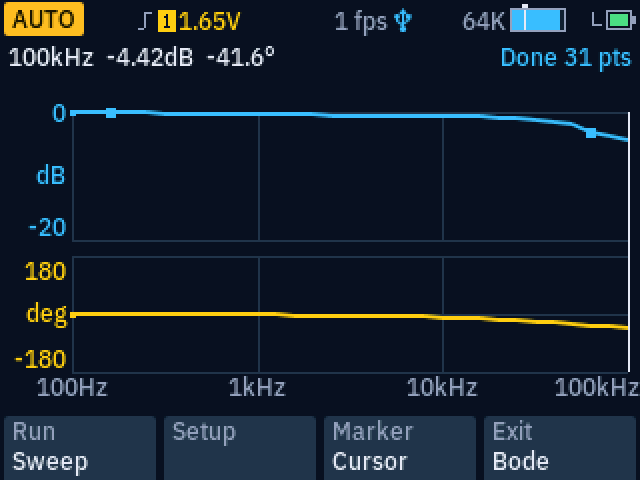
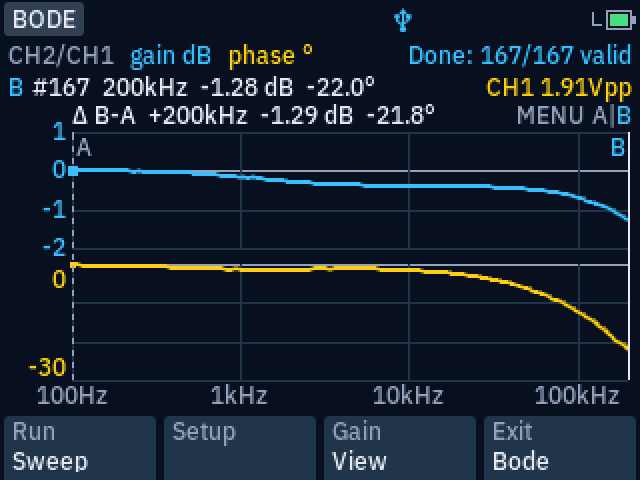
Update the Bode screenshot in the README

diff --git a/README.md b/README.md
@@ -57,7 +57,7 @@ Captured on a ZT703S running OpenOSC.
     <td align="center">Interleave offset calibration</td>
   </tr>
   <tr>
-    <td><img src=".github/images/bode.png" width="320" alt="Bode analyzer: gain and phase of a filter from 100 Hz to 100 kHz"></td>
+    <td><img src=".github/images/bode.png" width="320" alt="Bode analyzer: gain and phase of an RC filter from 100 Hz to 200 kHz"></td>
     <td><img src=".github/images/multimeter-type-k.png" width="320" alt="Multimeter: Type K thermocouple reading 22.5 °C"></td>
   </tr>
   <tr>
